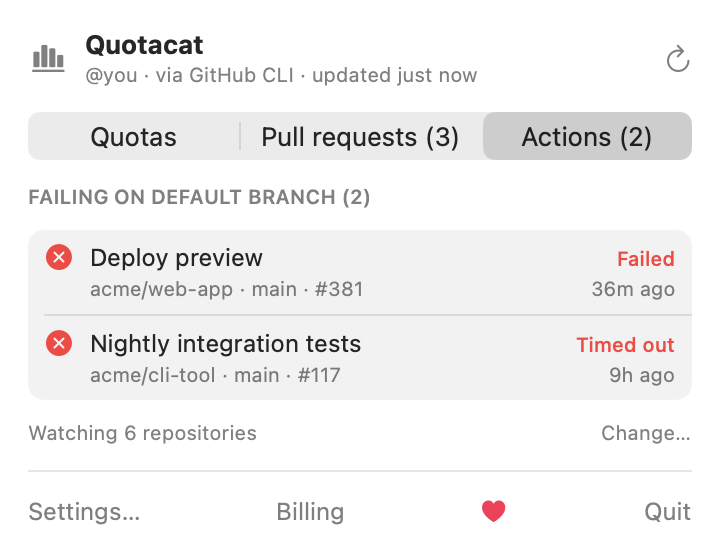
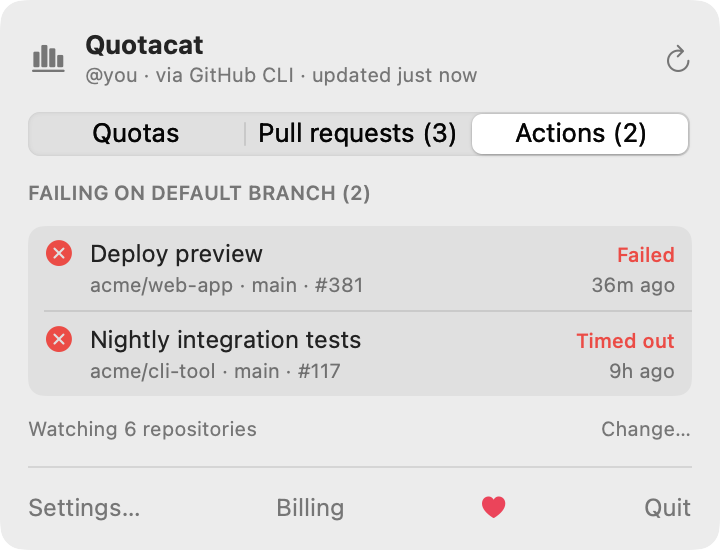
README: labeled screenshot grid under the demo GIF
Six screenshots in two rows (Quotas, Pull requests, Actions; Light theme,
Radial meters, Menu bar), each labeled with a one-line caption, all
re-rendered from the current build so they match.

diff --git a/README.md b/README.md
@@ -19,17 +19,28 @@
   <img src="docs/demo.gif" width="440" alt="Quotacat demo: menu bar, quotas, pull requests and failing workflows">
 </p>
 
-<p align="center">
-  <img src="docs/popover-dark.png" width="360" alt="Quotacat popover in dark mode">
-  &nbsp;
-  <img src="docs/popover-light.png" width="360" alt="Quotacat popover in light mode">
-</p>
-
-<p align="center">
-  <img src="docs/popover-pulls-light.png" width="360" alt="Pull requests tab">
-  &nbsp;
-  <img src="docs/popover-actions-dark.png" width="360" alt="Actions tab">
-</p>
+<table align="center">
+  <tr>
+    <th>Quotas</th>
+    <th>Pull requests</th>
+    <th>Actions</th>
+  </tr>
+  <tr>
+    <td align="center" valign="top"><img src="docs/popover-dark.png" width="260" alt="Quotas tab"><br><sub>Rate limits, Actions minutes with your budget, Copilot AI Credits</sub></td>
+    <td align="center" valign="top"><img src="docs/popover-pulls-dark.png" width="260" alt="Pull requests tab"><br><sub>Reviews waiting on you, oldest first, and your open PRs</sub></td>
+    <td align="center" valign="top"><img src="docs/popover-actions-dark.png" width="260" alt="Actions tab"><br><sub>Workflows failing on each repo's default branch</sub></td>
+  </tr>
+  <tr>
+    <th>Light theme</th>
+    <th>Radial meters</th>
+    <th>Menu bar</th>
+  </tr>
+  <tr>
+    <td align="center" valign="top"><img src="docs/popover-light.png" width="260" alt="Light theme"><br><sub>Follows your Mac, or pick Light or Dark</sub></td>
+    <td align="center" valign="top"><img src="docs/popover-radial-light.png" width="260" alt="Radial meters"><br><sub>Rings instead of bars, in the popover and menu bar</sub></td>
+    <td align="center" valign="top"><img src="docs/menubar-dark.png" width="260" alt="Menu bar, dark"><br><br><img src="docs/menubar-light.png" width="260" alt="Menu bar, light"><br><sub>Meters plus badges for reviews waiting (3) and failing workflows (2)</sub></td>
+  </tr>
+</table>
 
 ## What it shows
 
